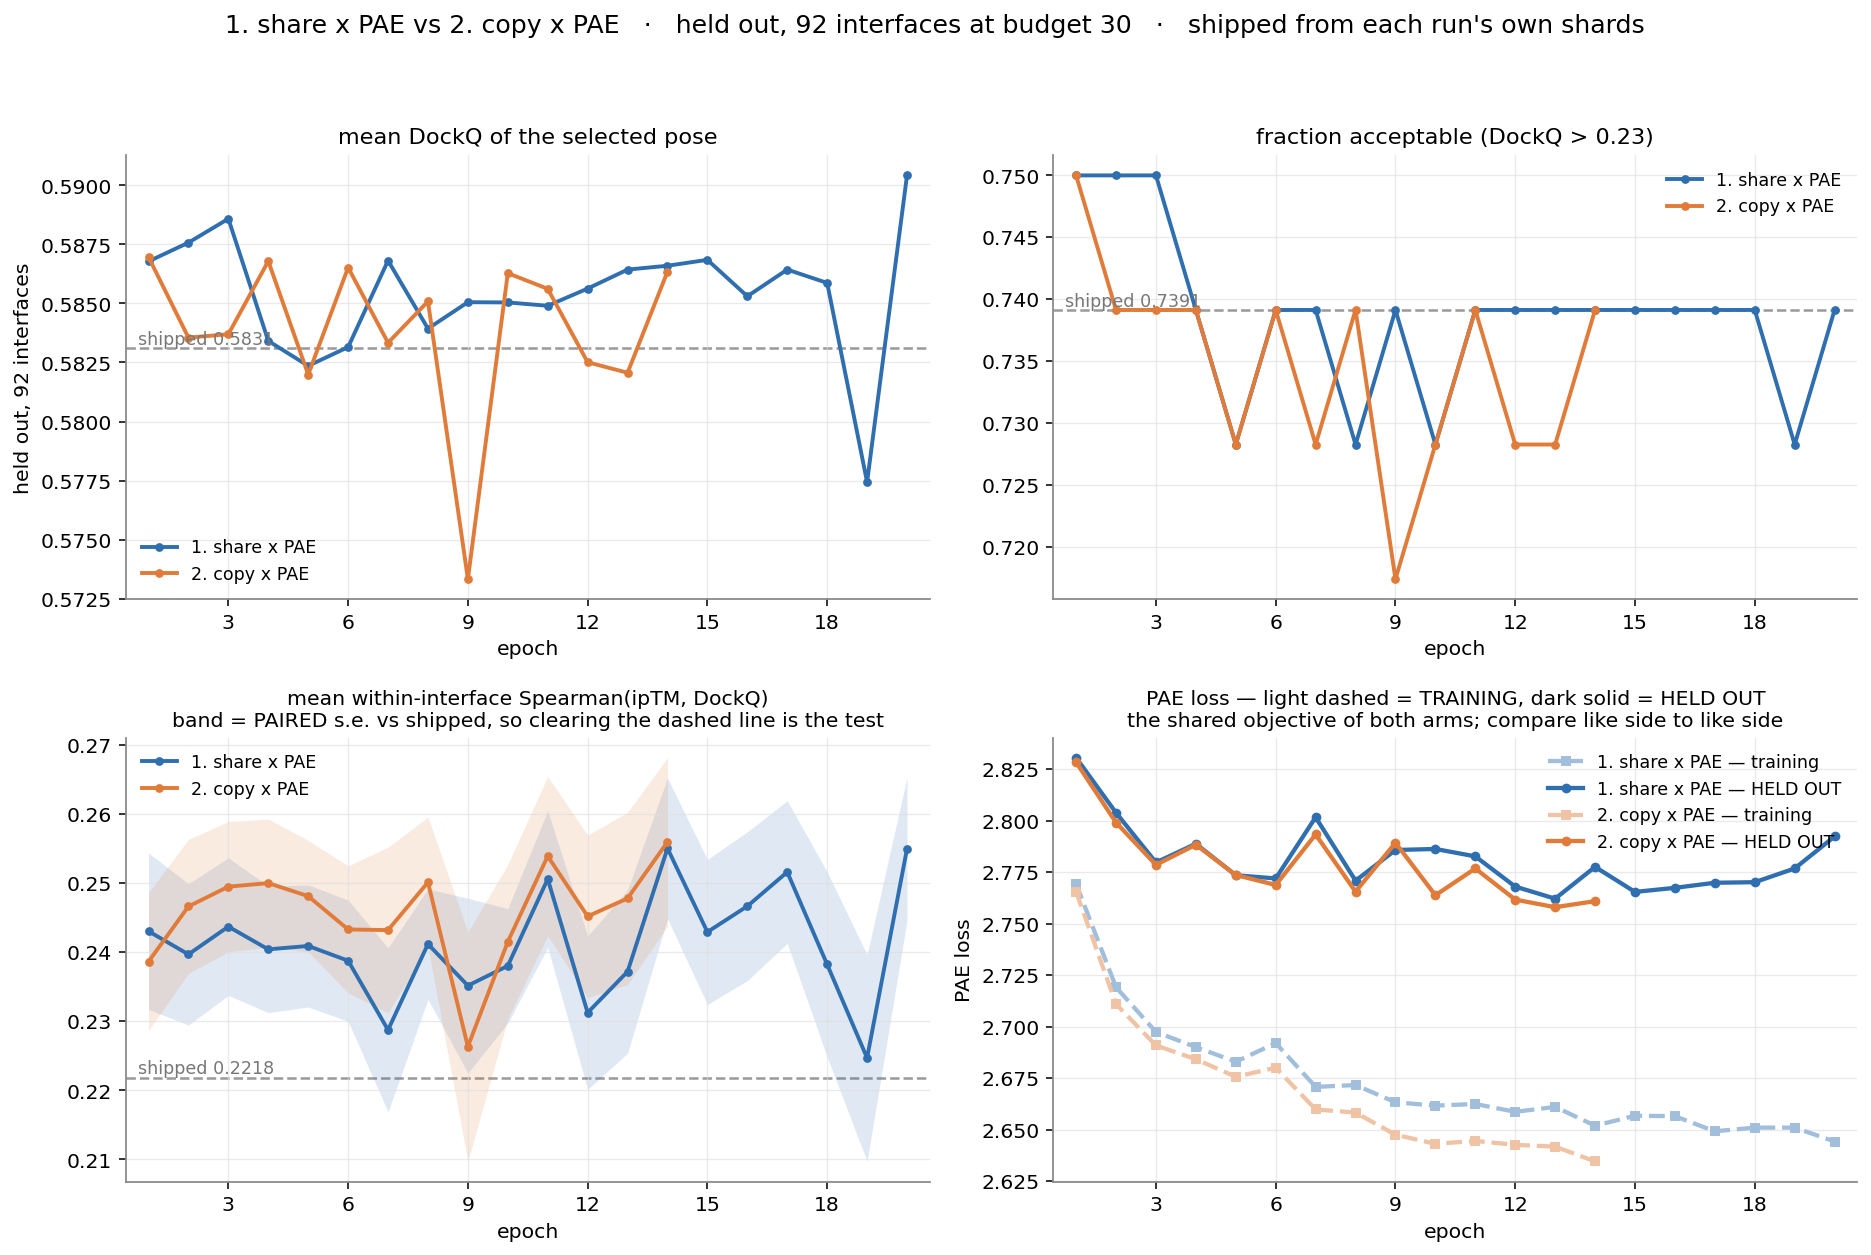
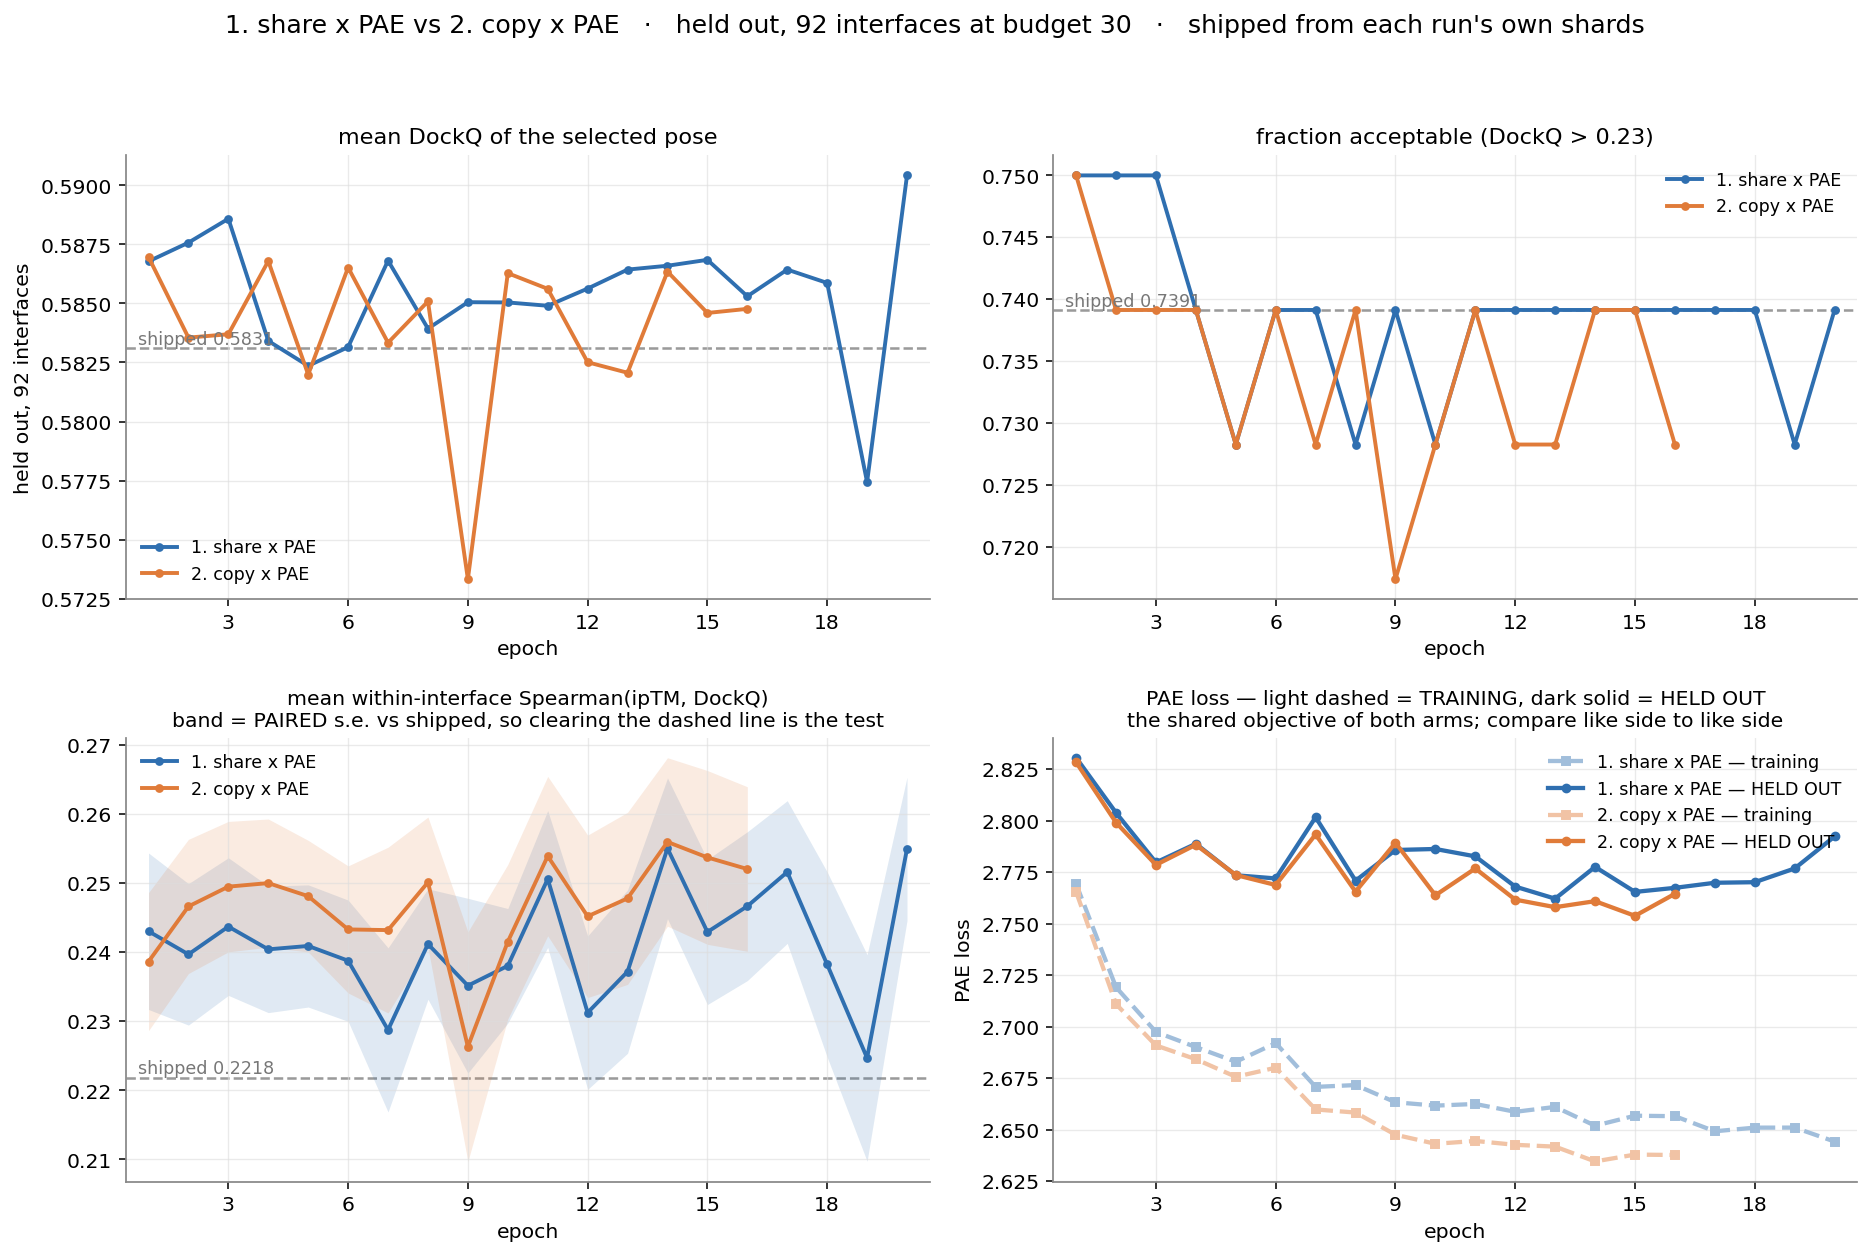
EXPERIMENTS.md: refresh live results (2026-10-26 3:43 PM EDT)
Regenerated by run_logging/experiments_doc.py from each run's own train_eval shards and rank_rho cache.

diff --git a/extra_training/EXPERIMENTS.md b/extra_training/EXPERIMENTS.md
@@ -36,17 +36,17 @@ Oracle ceiling: DockQ 0.6926, frac 0.8587 → **headroom 0.1096**.
 
 ![arms overlay](figures/arms_overlay.png)
 
-*Regenerated 2026-10-26 3:01 PM EDT. Every number below comes from each run's own train_eval shards and rank_rho cache; shipped is recomputed from the same rows via `stored_iptm`.*
+*Regenerated 2026-10-26 3:43 PM EDT. Every number below comes from each run's own train_eval shards and rank_rho cache; shipped is recomputed from the same rows via `stored_iptm`.*
 
 Shipped on `valfull` (92 interfaces, budget 30): DockQ **0.5830**, frac **0.7391**, rho **0.2218**.
 
 | # | run | epochs | DockQ | frac | rho | paired ΔDockQ (last) | train PAE | val PAE |
 |---|---|---|---|---|---|---|---|---|
 | 1 | `ip8ga4` | 1..20 | 0.5904 | 0.7391 | 0.2550 | +0.0074 ± 0.0040 | 2.6443 | 2.7923 |
-| 2 | `dntxmn` | 1..14 | 0.5863 | 0.7391 | 0.2560 | +0.0032 ± 0.0032 | 2.6380 | 2.7538 |
+| 2 | `dntxmn` | 1..16 | 0.5848 | 0.7283 | 0.2521 | +0.0018 ± 0.0027 | 2.6378 | 2.7645 |
 
 - **1. share x PAE** (`ip8ga4`, 20 epochs): paired ΔDockQ mean **+0.0023**; rho 0.2550 (best 0.2551) vs shipped 0.2218; train PAE 2.7693 → 2.6443; val PAE 2.8305 → 2.7923, min 2.7621 at epoch 13.
-- **2. copy x PAE** (`dntxmn`, 14 epochs): paired ΔDockQ mean **+0.0008**; rho 0.2560 (best 0.2560) vs shipped 0.2218; train PAE 2.7654 → 2.6380; val PAE 2.8283 → 2.7538, min 2.7538 at epoch 15.
+- **2. copy x PAE** (`dntxmn`, 16 epochs): paired ΔDockQ mean **+0.0009**; rho 0.2521 (best 0.2560) vs shipped 0.2218; train PAE 2.7654 → 2.6378; val PAE 2.8283 → 2.7645, min 2.7538 at epoch 15.
 
 <!-- AUTO:END -->
 
